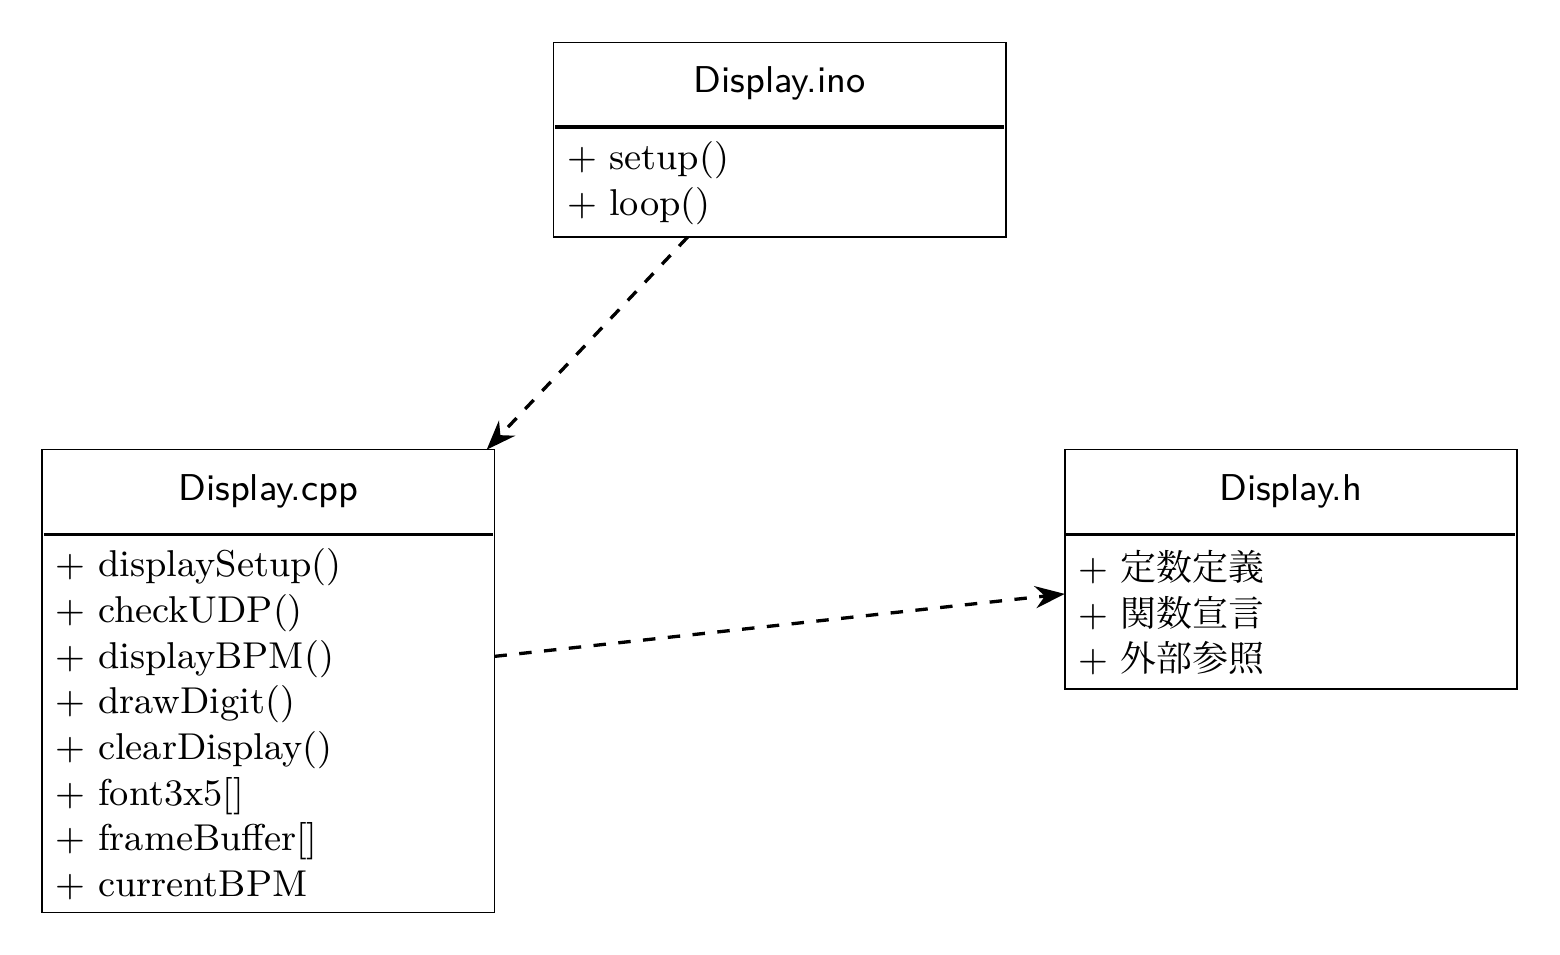
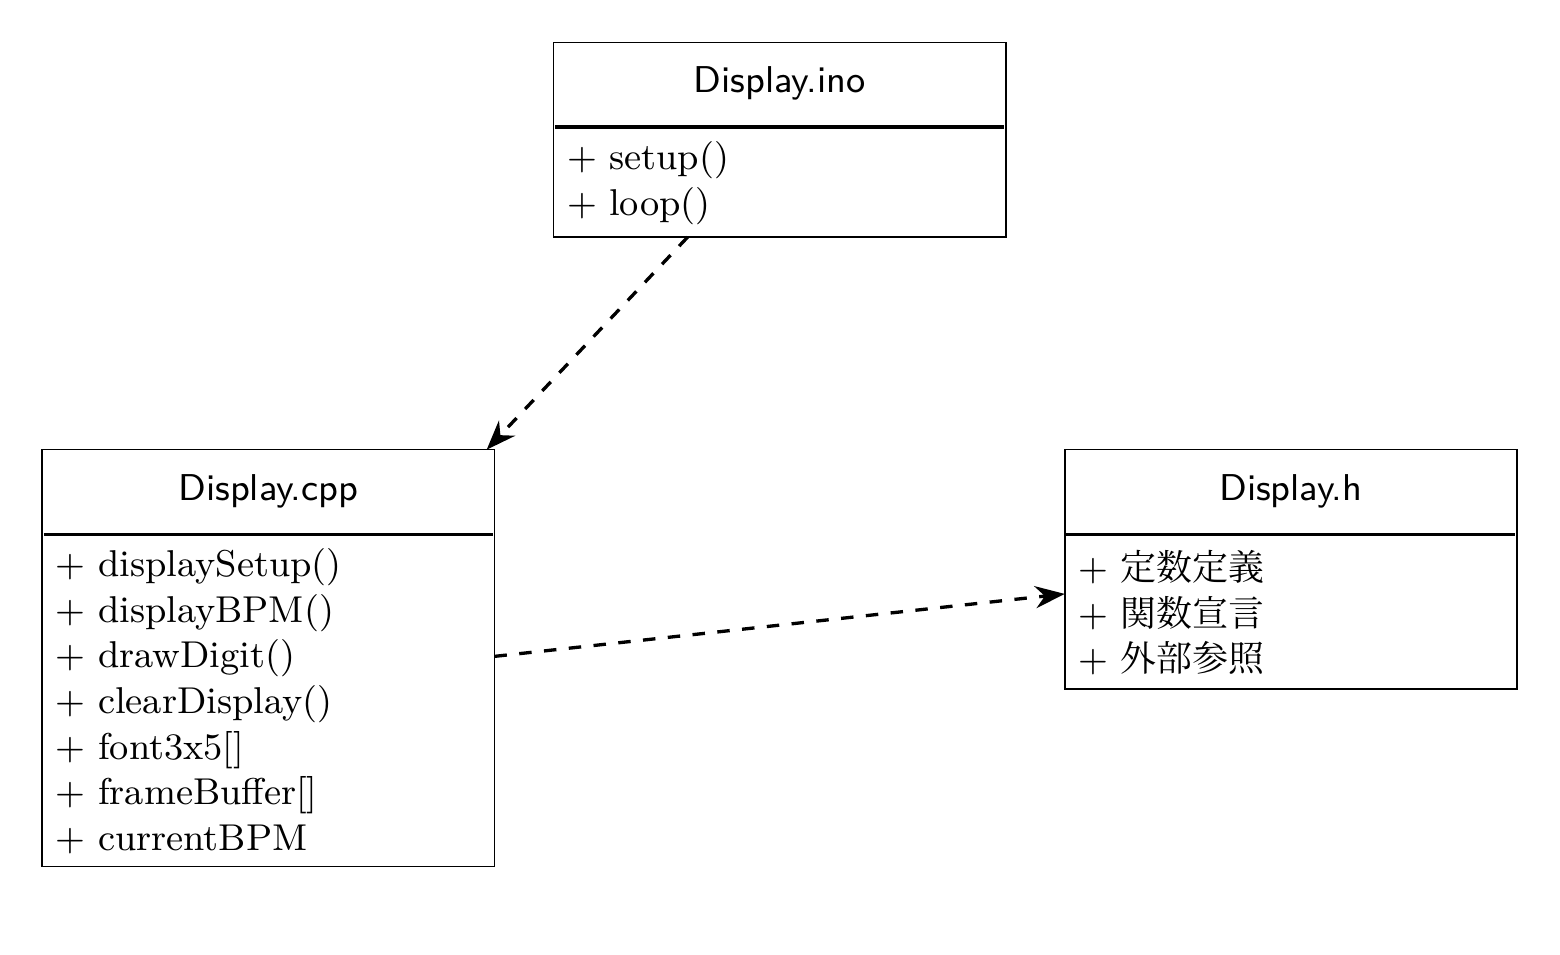
内部設計のコメントアウトに伴う参照・整合性の修正と固有名を用いない補足説明の追加
- sect2: 無線送信機能（2バイトパケット・送信先・3周冗長送信）の説明を固有名なしで追加
- sect2: 可変抵抗器の3段階処理，中継機の受信処理・モータ起動停止制御の補足を追加
- sect2: 楽器デバイス内部設計の冒頭でProcessing・同期Arduinoの2プログラム構成を明示し，シリアル受信メッセージの説明を追加
- sect2: 同期節にTick・globalTickの定義を追加し，ヘッダ表・状態遷移・'O'受信処理から未導入の識別子を排除
- sect4/sect5: accThreshold・isStarted・LaserDetector・baseline・processOCommands・packetRoundRobin・recoverI2C等の未導入識別子を役割ベースの表現に置換
- figs/class_mat.png: Display.cpp枠から + checkUDP() の記述を削除

Changed region(s): [[0.0615, 0.6073, 0.2154, 0.9414]]

diff --git a/lastreport /template/sect5.tex b/lastreport /template/sect5.tex
@@ -11,7 +11,7 @@
 
 結合テストにおいて，同期開始条件を\SI{50}{ms}以下とした場合，一度同期が確立した後の楽器間の演奏ズレはハース効果\cite{haas1951}に基づくMOPの目標値である\SI{50}{ms}未満に収まった．一方，同期の確立自体に要する時間（ボタン押下から楽曲再生開始までの応答遅延）は，全53回の試行のうち8回がTanらの示す\SI{60}{s}\cite{tan2026}の閾値を超過し，成功率は84.9\%にとどまった．特にBPM150では成功率が50.0\%まで低下したが，同条件の試行数は10回と少なく，BPMに固有の要因であるかは判別できない．この未達成の要因として，技術的観点から次の2点が考えられる．
 
-第一に，同期補正ループの収束特性と許容閾値の関係である．\ref{sec:gakki_naibu}項で述べた通り，本システムの同期確立は，マスターと各スレーブが'R'通信で演奏位置のずれ（diff）を交換し，補正を繰り返した結果，「接続中の全楽器のずれが閾値以内」という条件が成立した時点で完了する．このずれの測定には，往復遅延の半分を片道遅延とみなす近似が用いられているため，測定値には無線通信の遅延変動に由来する誤差が含まれる．許容閾値を\SI{50}{ms}に狭めると，この測定誤差やパケットロスによるずれの揺らぎが閾値幅に対して相対的に大きくなり，全楽器のずれが同時に閾値内へ収まる事象が生じにくくなるため，条件成立までの時間が延びたと考えられる．また，2.4GHz帯の混雑によるUDPパケットロスは，'R'・'O'通信の欠落として補正の機会そのものを減少させる．本テストの実施環境は実演を行ったハッカソン会場そのものではないが，いずれも大学構内という多数のWi-Fi機器が2.4GHz帯を共有する電波環境である点は共通しており，パケットロスが同期確立を遅延させた要因として十分に考えられる．なお，指揮デバイスのpacketRoundRobin関数による3周の冗長送信（周間\SI{20}{ms}）は，演奏開始・終了等の指令を送る一度きりの処理であり，同期確立の補正ループには関与しないため，同期確立時間の増大要因ではない．
+第一に，同期補正ループの収束特性と許容閾値の関係である．\ref{sec:gakki_naibu}項で述べた通り，本システムの同期確立は，マスターと各スレーブが'R'通信で演奏位置のずれ（diff）を交換し，補正を繰り返した結果，「接続中の全楽器のずれが閾値以内」という条件が成立した時点で完了する．このずれの測定には，往復遅延の半分を片道遅延とみなす近似が用いられているため，測定値には無線通信の遅延変動に由来する誤差が含まれる．許容閾値を\SI{50}{ms}に狭めると，この測定誤差やパケットロスによるずれの揺らぎが閾値幅に対して相対的に大きくなり，全楽器のずれが同時に閾値内へ収まる事象が生じにくくなるため，条件成立までの時間が延びたと考えられる．また，2.4GHz帯の混雑によるUDPパケットロスは，'R'・'O'通信の欠落として補正の機会そのものを減少させる．本テストの実施環境は実演を行ったハッカソン会場そのものではないが，いずれも大学構内という多数のWi-Fi機器が2.4GHz帯を共有する電波環境である点は共通しており，パケットロスが同期確立を遅延させた要因として十分に考えられる．なお，指揮デバイスが指令送信時に行う3周の冗長送信（周間\SI{20}{ms}，\ref{sec:siki_naibu}項）は，演奏開始・終了等の指令を送る一度きりの処理であり，同期確立の補正ループには関与しないため，同期確立時間の増大要因ではない．
 
 第二に，中継機デバイスの回転速度の変動である．\ref{sec:gakki_naibu}項で述べた通り，各楽器デバイスはレーザー光の受光間隔からBPMを推定しており，同期確立の前提として受光間隔が安定している必要がある．しかし，\ref{sec:jissou_kan}項で述べた通り，同一のPWM設定値に対するモータの回転速度は電源電圧の変動等により試行ごとに変動し，さらに\ref{sec:kousatsu_hw}項で述べる光学系の物理的条件によって受光の成立自体が変動する．受光間隔が揺らぐとBPM推定の安定判定に時間を要するため，同期確立時間の試行間のばらつきに寄与したと考えられる．
 
@@ -215,9 +215,9 @@ Friedman検定は「どこかに差がある」ことを示すのみであるた
 
 以上の考察に基づき，本システムの改善案を技術的課題ごとに述べる．
 
-第一に，同期確立時間の短縮である．現行のpacketRoundRobin関数による一律3周の冗長送信は，パケットロスの有無にかかわらず固定のオーバーヘッドを発生させる．これに対し，受信側からの確認応答（ACK）に基づく選択的再送方式へ変更すれば，パケットが正常に到達している場合の送信回数を1回に削減でき，電波状況に応じて冗長度を動的に調整することも可能となる．また，同期確立を条件成立の待機ではなく，事前の時刻同期（各デバイス間のクロックオフセットを往復遅延から推定する方式）に基づく開始時刻の指定へ置き換えることで，同期確立時間をBPMや電波状況に依存しない一定値に近づけられると考えられる．物理層の対策としては，Arduino UNO R4 WiFiの無線部が2.4GHz帯のみの対応であることを踏まえ，混雑の少ないチャネルの事前調査・固定や，会場環境によっては有線（シリアルまたはRS-485等）による同期線の追加が有効である．
+第一に，同期確立時間の短縮である．現行の一律3周の冗長送信は，パケットロスの有無にかかわらず固定のオーバーヘッドを発生させる．これに対し，受信側からの確認応答（ACK）に基づく選択的再送方式へ変更すれば，パケットが正常に到達している場合の送信回数を1回に削減でき，電波状況に応じて冗長度を動的に調整することも可能となる．また，同期確立を条件成立の待機ではなく，事前の時刻同期（各デバイス間のクロックオフセットを往復遅延から推定する方式）に基づく開始時刻の指定へ置き換えることで，同期確立時間をBPMや電波状況に依存しない一定値に近づけられると考えられる．物理層の対策としては，Arduino UNO R4 WiFiの無線部が2.4GHz帯のみの対応であることを踏まえ，混雑の少ないチャネルの事前調査・固定や，会場環境によっては有線（シリアルまたはRS-485等）による同期線の追加が有効である．
 
-第二に，電気的な安定性の向上である．指揮デバイスで確認されたI2Cバスのロックアップに対しては，I2C配線の短縮・プルアップ抵抗の適正化・はんだ付けによる基板化により，ノイズや接触不良に起因するバス異常の発生自体を抑制することが望ましい．現行のrecoverI2C関数によるソフトウェア復旧は有効に機能したが，復旧処理中は加速度検知が前回値で代替されるためである．また，中継機デバイスのモータがブラシ接点で発生させる電気ノイズおよび電源変動に対しては，既設の\SI{0.01}{\micro\farad}コンデンサに加えて，スナバ回路\cite{ieice_knowledgebase}の挿入やモータ系と制御系の電源分離が，回転速度の安定化（\ref{sec:kousatsu_douki}項で述べた受光間隔の揺らぎの低減）に有効と考えられる．
+第二に，電気的な安定性の向上である．指揮デバイスで確認されたI2Cバスのロックアップに対しては，I2C配線の短縮・プルアップ抵抗の適正化・はんだ付けによる基板化により，ノイズや接触不良に起因するバス異常の発生自体を抑制することが望ましい．現行のソフトウェアによるバス復旧処理は有効に機能したが，復旧処理中は加速度検知が前回値で代替されるためである．また，中継機デバイスのモータがブラシ接点で発生させる電気ノイズおよび電源変動に対しては，既設の\SI{0.01}{\micro\farad}コンデンサに加えて，スナバ回路\cite{ieice_knowledgebase}の挿入やモータ系と制御系の電源分離が，回転速度の安定化（\ref{sec:kousatsu_douki}項で述べた受光間隔の揺らぎの低減）に有効と考えられる．
 
 第三に，ボタン操作の反映成功率の改善である．失敗事例の要因がブレッドボードの接触不安定にあることから，はんだ付けによるユニバーサル基板またはプリント基板への移行が最も直接的な対策である．また，\SI{300}{ms}の待機によるチャタリング防止を，RCフィルタとシュミットトリガによるハードウェアデバウンスと割り込み駆動の検知へ置き換えることで，待機中の検出漏れを排除できる．これらの対策のうえで，99.0\%という目標値の達成を統計的に判定するためには，\ref{sec:kousatsu_shihyou}項で述べた通り数百回規模の試行回数を確保する必要がある．
 
